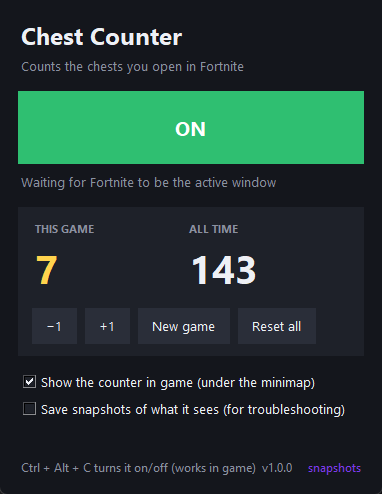
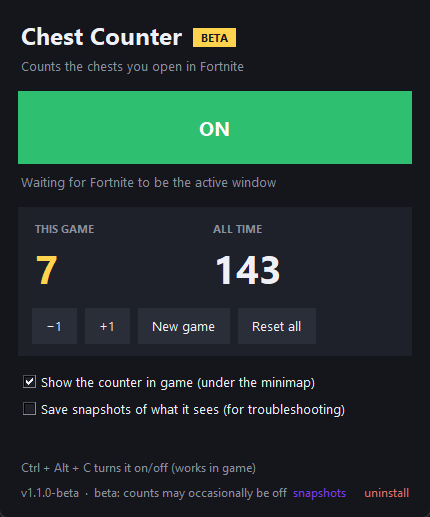
1.1.0-beta: uninstaller, beta label
- "uninstall" link in the window (and ChestCounter.exe --uninstall):
  deletes counts, settings and snapshots in %APPDATA%\ChestCounter,
  then removes the .exe once it has closed. Settings are not written
  back on the way out.
- Marked as beta: BETA badge, version 1.1.0-beta, beta notice.
- README: beta notice, uninstall section, new screenshot.

diff --git a/chest_counter.py b/chest_counter.py
@@ -20,7 +20,10 @@ import ctypes
 import ctypes.wintypes as wt
 import json
 import os
+import shutil
+import subprocess
 import sys
+import tempfile
 import threading
 import time
 import tkinter as tk
@@ -33,7 +36,7 @@ import numpy as np
 cv2.setNumThreads(1)      # the images are tiny; extra threads just burn CPU spinning up
 
 APP_NAME = "Chest Counter"
-VERSION = "1.0.0"
+VERSION = "1.1.0-beta"
 HERE = os.path.dirname(os.path.abspath(__file__))
 ASSETS = os.path.join(getattr(sys, "_MEIPASS", HERE), "assets")       # bundled into the .exe
 DATA_DIR = os.path.join(os.environ.get("APPDATA", HERE), "ChestCounter")
@@ -123,6 +126,49 @@ def save_config(cfg):
         os.replace(tmp, CONFIG_PATH)
     except OSError:
         pass
+
+
+# ------------------------------------------------------------- uninstall ----
+# Runs after the app has closed: waits until ChestCounter.exe is no longer in
+# use, deletes it, then deletes itself. ping is used as a sleep because
+# "timeout" doesn't work without a console window.
+_REMOVE_EXE_BAT = r"""@echo off
+set n=0
+:retry
+ping -n 2 127.0.0.1 >nul
+del /f /q "{exe}" >nul 2>&1
+if exist "{exe}" (
+  set /a n+=1
+  if !n! lss 30 goto retry
+)
+(goto) 2>nul & del /f /q "%~f0"
+"""
+
+
+def uninstall(parent=None):
+    """Delete counts, settings and snapshots, and (for the .exe) the program itself.
+    Returns True if the user went ahead."""
+    if not messagebox.askyesno(
+            "Uninstall " + APP_NAME,
+            "Uninstall Chest Counter?\n\n"
+            "This deletes your chest counts, settings and snapshots, and removes "
+            "ChestCounter.exe from this PC.\n\nThis can't be undone.",
+            icon="warning", default="no", parent=parent):
+        return False
+    shutil.rmtree(DATA_DIR, ignore_errors=True)
+    exe = sys.executable if getattr(sys, "frozen", False) else None
+    if exe:
+        bat = os.path.join(tempfile.gettempdir(), f"chestcounter_uninstall_{os.getpid()}.bat")
+        with open(bat, "w", encoding="mbcs") as f:
+            f.write(_REMOVE_EXE_BAT.format(exe=exe))
+        subprocess.Popen(["cmd", "/v:on", "/c", bat], creationflags=0x08000000,   # CREATE_NO_WINDOW
+                         close_fds=True, cwd=tempfile.gettempdir())
+        done = "Chest Counter has been uninstalled.\n\nChestCounter.exe will be removed a moment after this closes."
+    else:
+        done = ("Your counts, settings and snapshots have been deleted.\n\n"
+                "You're running from source, so delete the ChestCounter folder yourself.")
+    messagebox.showinfo("Uninstall " + APP_NAME, done, parent=parent)
+    return True
 
 
 # --------------------------------------------------------------- windows ----
@@ -542,7 +588,11 @@ class App:
 
     def _build(self):
         pad = {"padx": 18}
-        self._label(self.root, APP_NAME, 18, bold=True).pack(anchor="w", pady=(16, 0), **pad)
+        head = tk.Frame(self.root, bg=BG)
+        head.pack(anchor="w", pady=(16, 0), **pad)
+        self._label(head, APP_NAME, 18, bold=True).pack(side="left")
+        tk.Label(head, text="BETA", bg=GOLD, fg="#14161c", font=("Segoe UI", 8, "bold"),
+                 padx=6, pady=1).pack(side="left", padx=(8, 0), pady=(6, 0))
         self._label(self.root, "Counts the chests you open in Fortnite", 10, DIM).pack(anchor="w", **pad)
 
         self.toggle_btn = tk.Button(self.root, command=self.toggle, relief="flat", bd=0, fg="white",
@@ -582,12 +632,17 @@ class App:
         self.score_lbl = self._label(self.root, "", 9, DIM)
         self.score_lbl.pack(anchor="w", pady=(8, 0), **pad)
         foot = tk.Frame(self.root, bg=BG)
-        foot.pack(fill="x", pady=(6, 16), **pad)
+        foot.pack(fill="x", pady=(6, 4), **pad)
         self._label(foot, "Ctrl + Alt + C turns it on/off (works in game)", 9, DIM).pack(side="left")
-        link = self._label(foot, "snapshots", 9, ACCENT, cursor="hand2")
+        foot2 = tk.Frame(self.root, bg=BG)
+        foot2.pack(fill="x", pady=(0, 14), **pad)
+        self._label(foot2, f"v{VERSION}  ·  beta: counts may occasionally be off", 9, DIM).pack(side="left")
+        link = self._label(foot2, "uninstall", 9, "#e06c6c", cursor="hand2")
         link.pack(side="right")
+        link.bind("<Button-1>", lambda e: self.do_uninstall())
+        link = self._label(foot2, "snapshots", 9, ACCENT, cursor="hand2")
+        link.pack(side="right", padx=(0, 12))
         link.bind("<Button-1>", lambda e: self.open_snapshots())
-        self._label(foot, f"v{VERSION}", 9, DIM).pack(side="right", padx=(0, 10))
 
     # ---- state
     def set_enabled(self, on):
@@ -667,8 +722,18 @@ class App:
             self.overlay.hide()
         self.root.after(400 if on else 1000, self._tick)
 
+    def do_uninstall(self):
+        self.scanner.enabled.clear()               # stop counting while the question is up
+        if uninstall(parent=self.root):
+            self.uninstalled = True                # don't write settings back on the way out
+            self.overlay.hide()
+            self.root.destroy()
+        else:
+            self.set_enabled(self.cfg["enabled"])
+
     def quit(self):
-        save_config(self.cfg)
+        if not getattr(self, "uninstalled", False):
+            save_config(self.cfg)
         self.root.destroy()
 
     def run(self):
@@ -711,7 +776,19 @@ if __name__ == "__main__":
     else:
         # Only ever one copy (two would double the counts).
         _mutex = kernel32.CreateMutexW(None, False, "Local\\ChestCounterSingleInstance")
-        if kernel32.GetLastError() == 183:          # ERROR_ALREADY_EXISTS
+        already_running = kernel32.GetLastError() == 183      # ERROR_ALREADY_EXISTS
+        if "--uninstall" in sys.argv:
+            _root = tk.Tk()
+            _root.withdraw()
+            if already_running:
+                messagebox.showwarning("Uninstall " + APP_NAME,
+                                       "Chest Counter is open. Close it first, or click "
+                                       "\"uninstall\" at the bottom of its window.")
+            else:
+                uninstall(parent=_root)
+            _root.destroy()
+            sys.exit(0)
+        if already_running:
             hwnd = user32.FindWindowW(None, APP_NAME)
             if hwnd:
                 user32.ShowWindow(hwnd, 9)          # SW_RESTORE

diff --git a/README.md b/README.md
@@ -1,8 +1,10 @@
 <img src="docs/icon.png" width="72" align="right" alt="">
 
-# Chest Counter
+# Chest Counter · Beta
 
 Counts the chests you open in Fortnite. A small overlay under your minimap shows **This game** and **All time**, and the numbers roll up each time you open one.
+
+> **Beta:** Chest Counter is still in beta. It has been tested on 1080p and works well, but a count may occasionally be missed or doubled. Use **+1 / −1** to fix it, and please [open an issue](../../issues) if something looks wrong.
 
 <img src="docs/screenshot.png" width="340" alt="Chest Counter window">
 
@@ -30,6 +32,11 @@ Don't run Chest Counter in **tournaments, FNCS or cash cups**. Press **Ctrl + Al
 
 - **Tournaments:** Epic's [FNCS rules (section 8.2.1)](https://www.fortnite.com/competitive/rules-guidelines/rules-library/fortnite-championship-series-fncs-2026-official-rules) ban overlays and tools that read the live game, including through screen recording or screenshots, when they give a competitive advantage. A chest count doesn't give you an edge, but Epic reads this rule broadly and has disqualified players for screen-reading tools. Don't risk it.
 - **Normal games:** the [Fortnite EULA](https://legal.epicgames.com/en-US/fortnite/eula) only bans unauthorized software used *to gain an advantage*. Chest Counter doesn't give you one, and it doesn't touch the game. Still, Epic doesn't officially support any third-party app, so you use it at your own risk.
+
+## Uninstall
+Click **uninstall** at the bottom of the Chest Counter window and confirm. It deletes your counts, settings and snapshots (`%APPDATA%\ChestCounter`), then removes `ChestCounter.exe` a moment after it closes. Nothing else is left on your PC.
+
+You can also run `ChestCounter.exe --uninstall` with the app closed.
 
 ## How it works
 When you open a chest, Fortnite shows a purple popup: **"+600 XP · CHEST"**. Chest Counter looks at that one small spot on the screen (280×140 pixels) every 0.6 seconds and recognises the word by its purple outline. Because it only looks at the outline, whatever is behind the popup doesn't matter.
